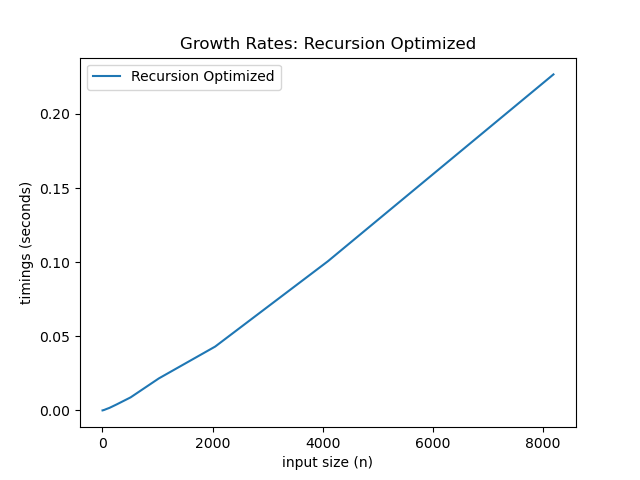
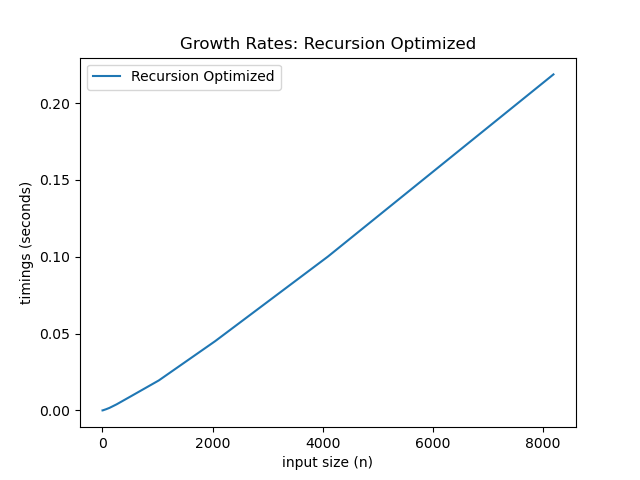
Fixed optimized version with proper strip calc for worst case

diff --git a/closest_pair_points/closest_pair_points.py b/closest_pair_points/closest_pair_points.py
@@ -377,9 +377,9 @@ def strip_closest_opt(strip_left, strip_right, min_pair):
     ----
     When either strip_left or strip_right is empty, then all points are on the
     same axis, such as all vertical points when x=C where C is some constant.
-    Because the strip is already presorted by y-coord, then there only need
-    an outer for loop of n and a inner for looper of 2 comparisons.
-    Therefore, time complexity is still O(2n).
+    Because the strip is already presorted by y-coord, then there only need one
+    for loop of n comparisons.
+    Therefore, time complexity is O(n).
 
     Return
     ------
@@ -431,12 +431,11 @@ def strip_closest_opt(strip_left, strip_right, min_pair):
         strip = strip_left if strip_left else strip_right
 
         for i in range(len(strip) - 1):  # skip last element compare
-            for j in range(i + 1, min(i + 2, len(strip))):
-                dist = Point.distance(strip[i], strip[j])
+            dist = Point.distance(strip[i], strip[i+1])
 
-                if dist < strip_min_dist:
-                    strip_min_dist = dist
-                    strip_min_points = (strip[i], strip[j])
+            if dist < strip_min_dist:
+                strip_min_dist = dist
+                strip_min_points = (strip[i], strip[i+1])
 
     return {"distance": strip_min_dist, "pair": strip_min_points}
 
